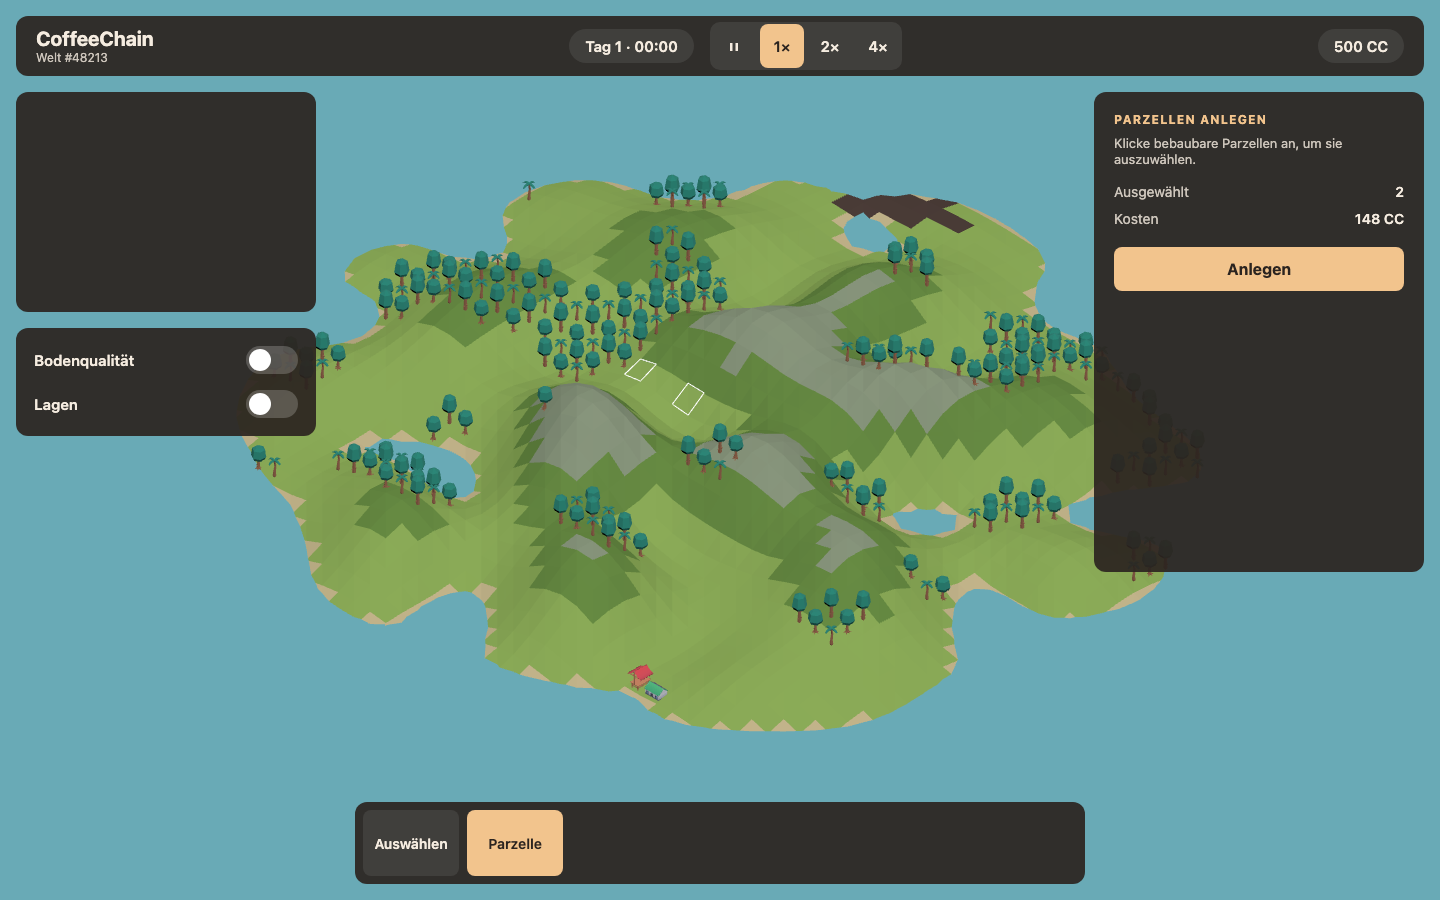
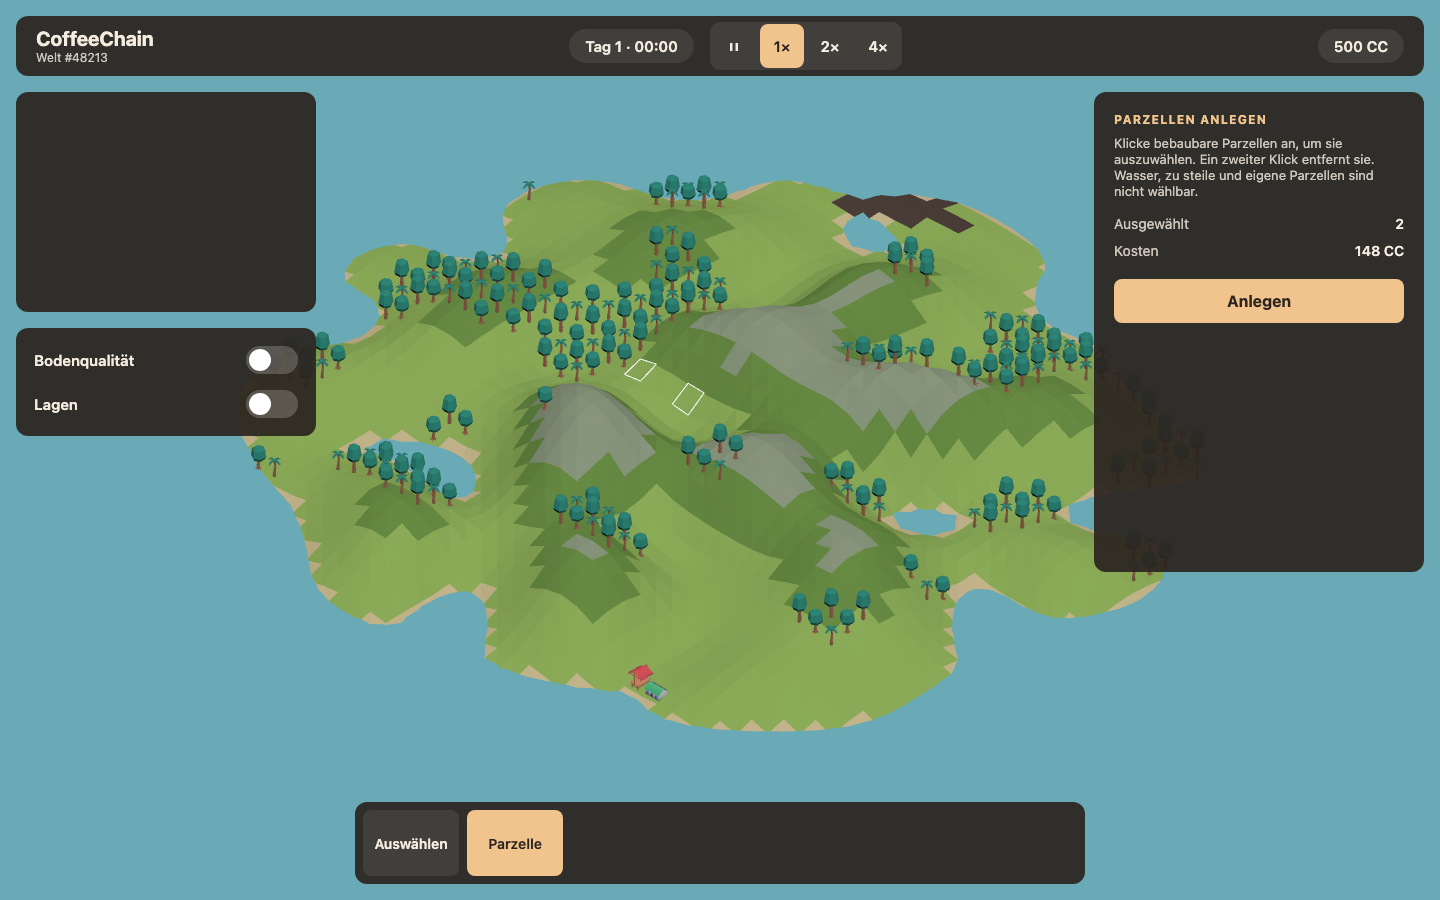
fix(ui): tell the player why "Anlegen" is disabled
The parcel tool shows "Nicht genug CC." when the cost is more than the balance.
The hint tells that a second click removes a parcel.
It also tells which parcels are not selectable.
A comment on quoteParcels tells that callers must validate the list.

Claude-Session: https://claude.ai/code/session_01SVL3Jb7dyYQMMNd2wyYRtH

Changed region(s): [[0.75, 0.1556, 1.0, 0.3733]]

diff --git a/src/ui/ParcelTool.vue b/src/ui/ParcelTool.vue
@@ -12,7 +12,8 @@ const game = useGameStore()
 const selection = useSelectionStore()
 // quoteParcels only reads the state, so the cast of the readonly snapshot is safe.
 const cost = computed(() => quoteParcels(game.state as GameState, selection.parcels))
-const disabled = computed(() => selection.parcels.length === 0 || cost.value > game.state.money)
+const tooExpensive = computed(() => cost.value > game.state.money)
+const disabled = computed(() => selection.parcels.length === 0 || tooExpensive.value)
 
 function create() {
   game.dispatch({ type: 'CreateParcels', parcels: selection.parcels })
@@ -30,6 +31,7 @@ function create() {
       <dt>{{ t.total }}</dt>
       <dd data-testid="parcel-tool-total">{{ formatMoney(cost) }}</dd>
     </dl>
+    <p v-if="tooExpensive" class="short" data-testid="parcel-tool-short">{{ t.tooExpensive }}</p>
     <button type="button" data-testid="parcel-tool-create" :disabled="disabled" @click="create">
       {{ t.create }}
     </button>
@@ -58,6 +60,12 @@ dl {
   gap: 10px 16px;
   margin: 0 0 20px;
   font-size: 14px;
+}
+.short {
+  margin: -8px 0 12px;
+  font-size: 13px;
+  font-weight: 600;
+  color: #f29b8d;
 }
 dt {
   opacity: 0.8;

diff --git a/src/ui/ParcelTool.test.ts b/src/ui/ParcelTool.test.ts
@@ -28,12 +28,16 @@ const button = (html: string) => html.match(/<button[^>]*>/)![0]
 
 describe('ParcelTool (S12)', () => {
   it('AC-5: disables "Anlegen" when the cost is more than the balance', async () => {
-    expect(button(await render(4799))).toContain('disabled')
+    const html = await render(4799)
+    expect(button(html)).toContain('disabled')
+    expect(html).toContain('data-testid="parcel-tool-short"')
+    expect(html).toContain('Nicht genug CC.')
   })
 
   it('AC-5: enables "Anlegen" when the balance pays the cost', async () => {
     const html = await render(4800)
     expect(button(html)).not.toContain('disabled')
+    expect(html).not.toContain('parcel-tool-short')
     expect(html).toContain('48 CC')
   })
 

diff --git a/src/sim/farm/parcels.ts b/src/sim/farm/parcels.ts
@@ -43,7 +43,8 @@ export function isBuildable(world: World, x: number, y: number): boolean {
   )
 }
 
-// Cost in hundredths of CC. The caller gives only buildable parcels that the farm does not own.
+// Cost in hundredths of CC. It does not validate the list.
+// The caller must give only buildable parcels that the farm does not own, each one time.
 export function quoteParcels(state: GameState, list: { x: number; y: number }[]): number {
   const { size, parcels } = state.world
   const { firstCost, baseCost, zoneMultiplier } = balance().parcels
